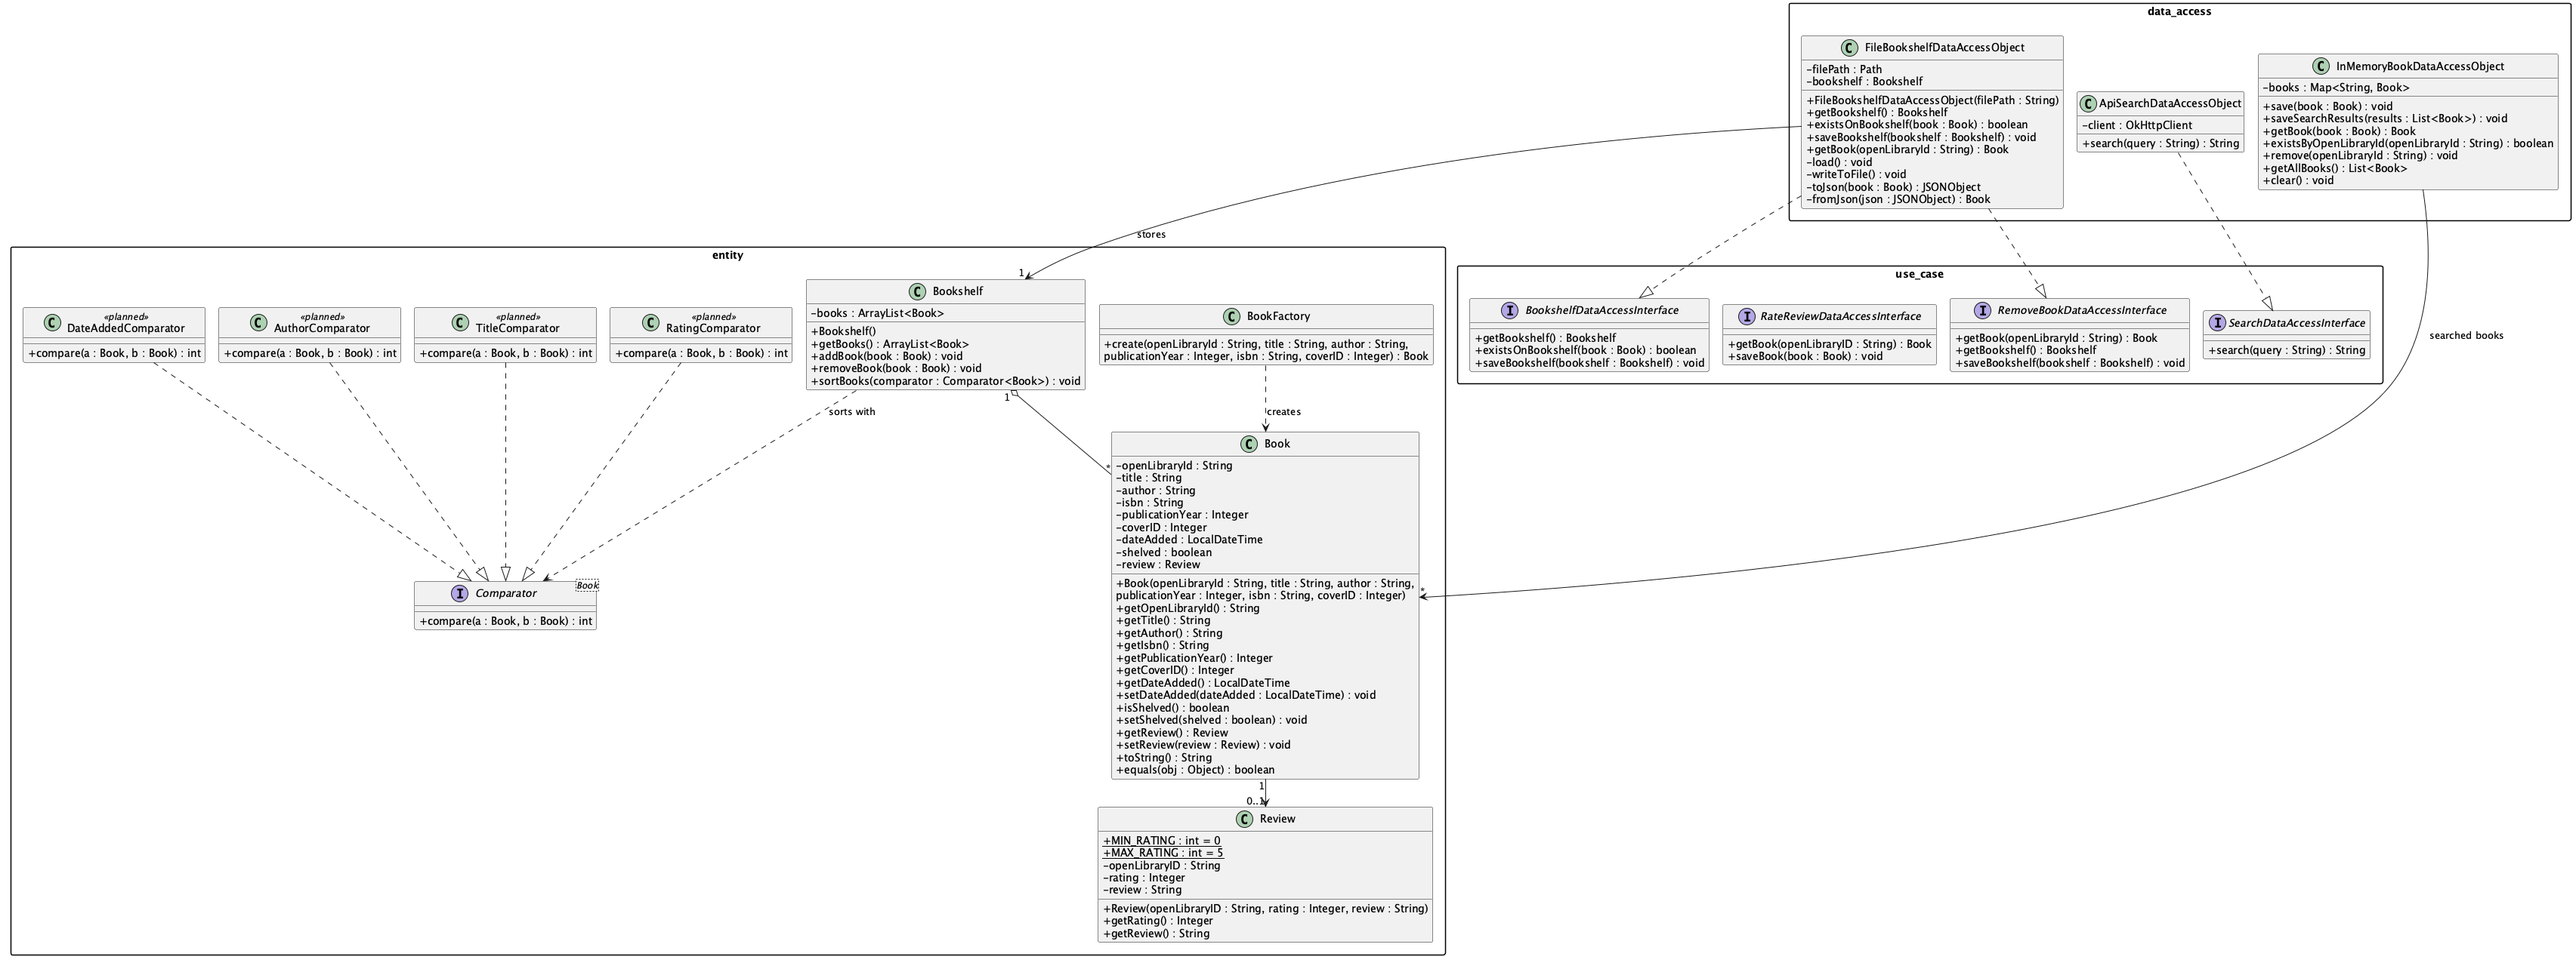
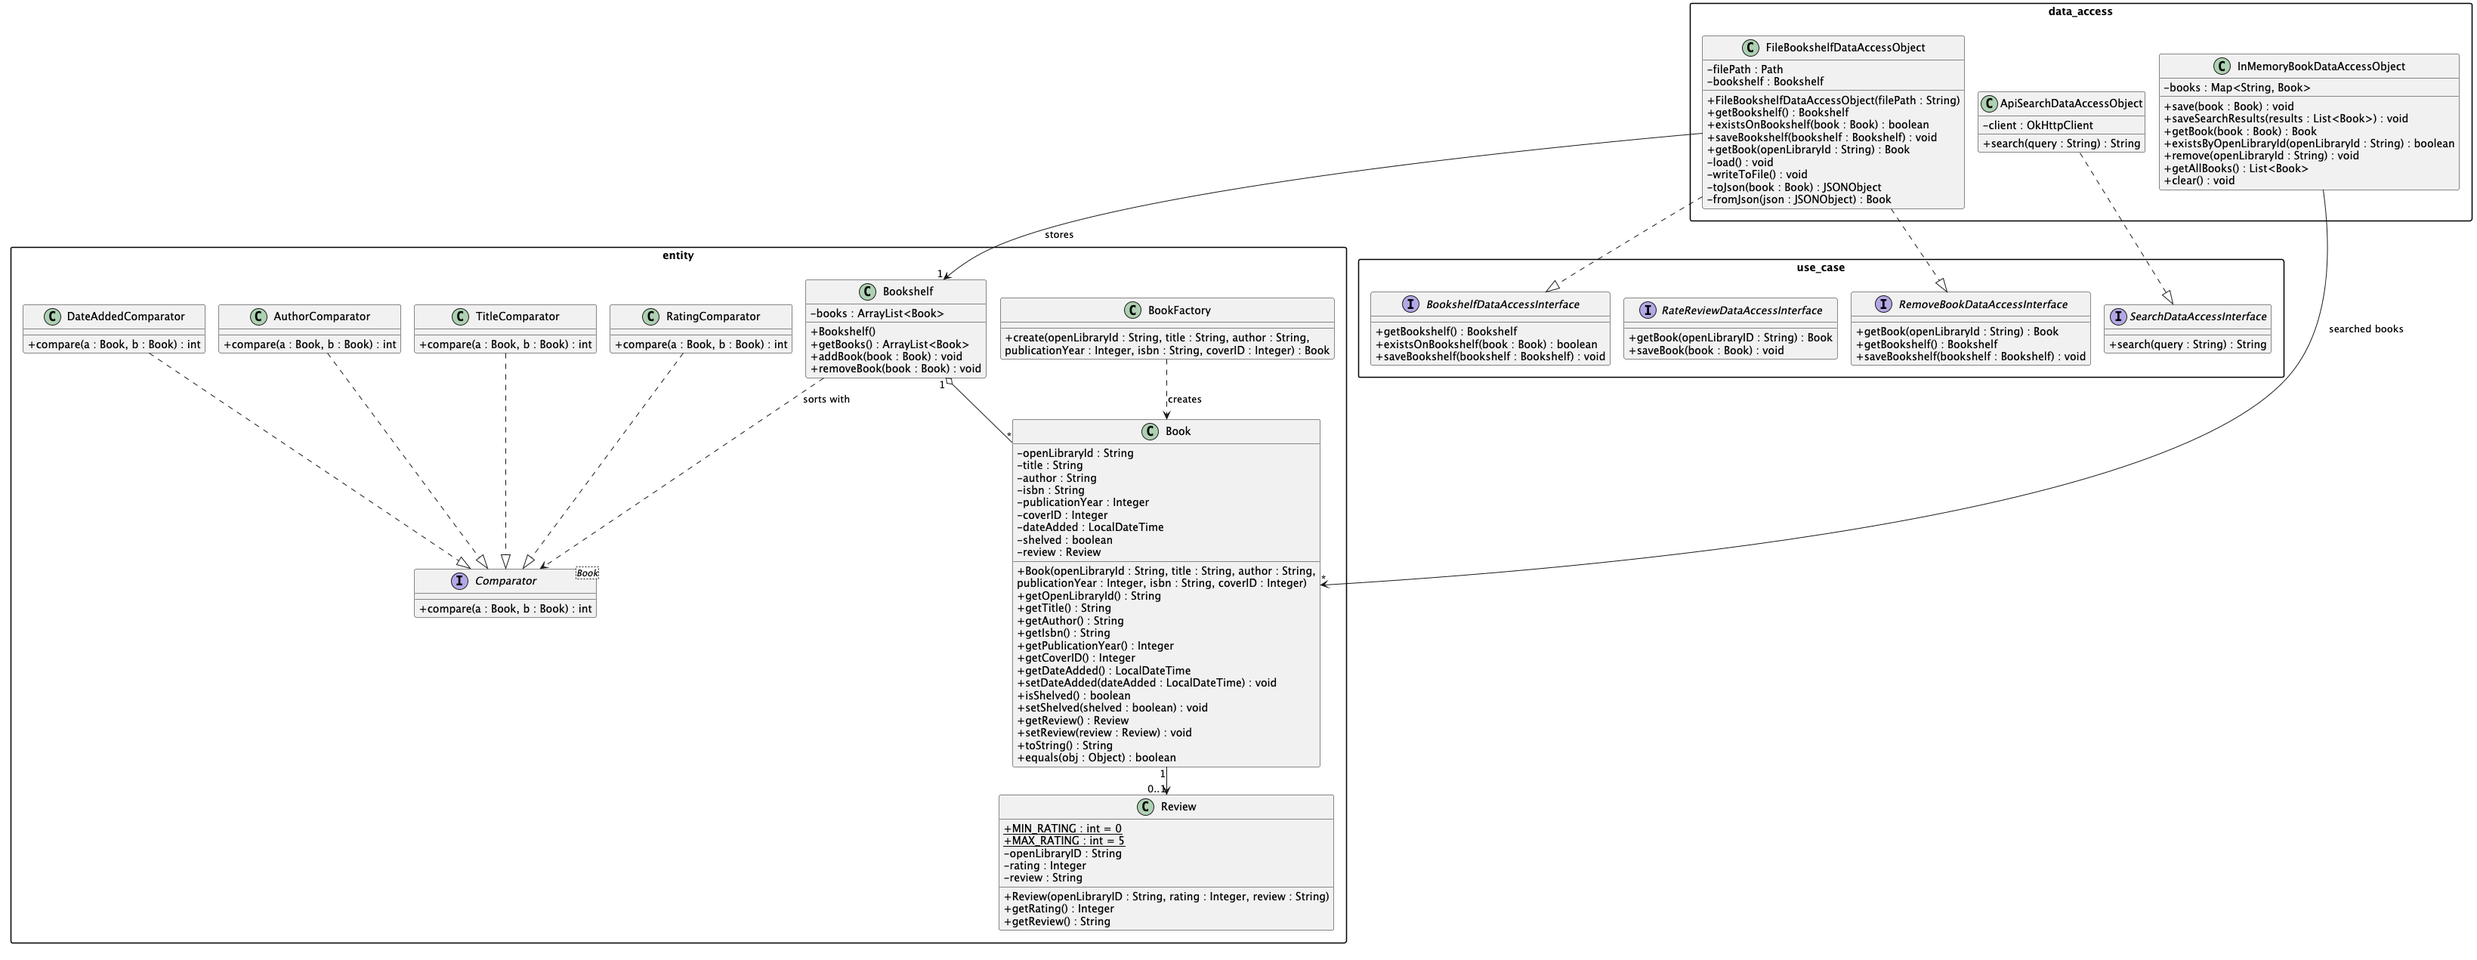
Remove unused sortBooks method in Bookshelf

diff --git a/src/main/java/entity/Bookshelf.java b/src/main/java/entity/Bookshelf.java
@@ -1,7 +1,6 @@
 package entity;
 
 import java.util.ArrayList;
-import java.util.Comparator;
 
 /**
  * Represents a user's personal bookshelf, which maintains a collection
@@ -46,14 +45,4 @@ public class Bookshelf {
     public void removeBook(Book book){
         books.remove(book);
     }
-
-    /**
-     * Sorts the bookshelf by a certain comparator.
-     *
-     * @param compareBy the comparator to sort the list by
-     */
-    public void sortBooks(Comparator compareBy){
-
-    }
-
 }
